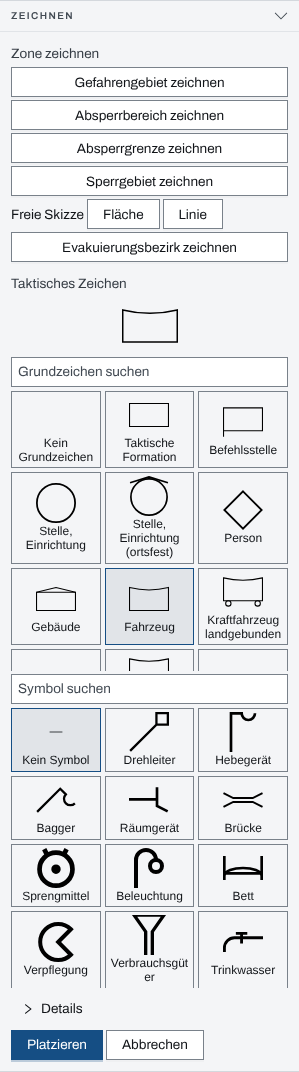
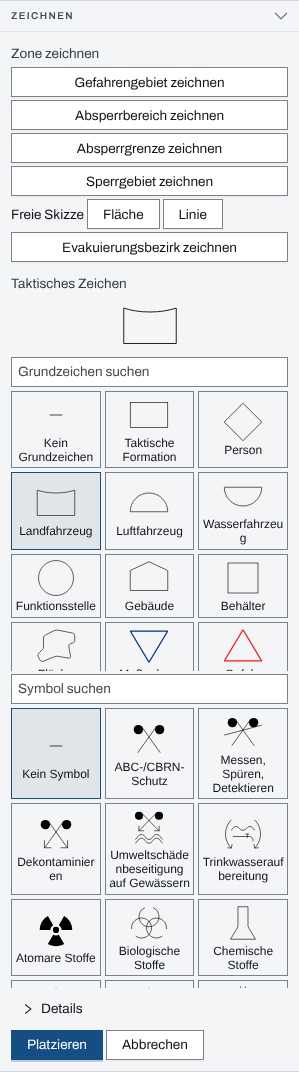
docs(anwender): LFH-836 — „Ein taktisches Zeichen setzen“ an den neuen Picker angepasst
Kein Grundzeichen plus Symbol, Farbe nur aus der Palette und nur bei Füllung,
keine Funktion, zweite Darstellungen als eigene Kachel, vereinfacht
dargestellte Altzeichen. Quellen um zeichenWahl.ts, FreiesZeichenInspector.tsx
und zeichen/freiesZeichen.ts ergänzt, taktischesZeichen.ts entfernt. Bilder
des Kapitels neu erzeugt (Kachel heißt jetzt „Landfahrzeug“).

Claude-Session: https://claude.ai/code/session_01AhpyzJ9PQTLoronAT1ThWW

diff --git a/frontend/e2e/doku-bilder/lagekarte.bilder.ts b/frontend/e2e/doku-bilder/lagekarte.bilder.ts
@@ -15,7 +15,8 @@ import { anmelden, demoEinsatz, expect, fotografiere, fuelle, test, uhrAnhalten 
  *                          frontend/src/pages/lagekarte/Sidebar.tsx,
  *                          frontend/src/pages/lagekarte/KartenUeberlagerung.tsx
  *   taktisches-zeichen.png frontend/src/pages/lagekarte/Sidebar.tsx (Paneel „Zeichnen“),
- *                          frontend/src/pages/lagekarte/FreiesZeichenPicker.tsx
+ *                          frontend/src/pages/lagekarte/FreiesZeichenPicker.tsx,
+ *                          frontend/src/pages/lagekarte/zeichenWahl.ts
  *   zone-zeichnen.png      frontend/src/pages/lagekarte/ZeichnenSteuerung.tsx
  *   messen.png             frontend/src/pages/lagekarte/MessSteuerung.tsx
  *
@@ -157,7 +158,7 @@ test.describe(KAPITEL, () => {
     const zeichnen = page.locator('section[data-paneel="zeichnen"]');
     await zeichnen.getByRole('button', { name: 'Taktisches Zeichen platzieren' }).click();
     const grundzeichen = zeichnen.getByRole('radiogroup', { name: 'Grundzeichen' });
-    await grundzeichen.getByRole('radio', { name: 'Fahrzeug', exact: true }).click();
+    await grundzeichen.getByRole('radio', { name: 'Landfahrzeug', exact: true }).click();
     await expect(zeichnen.getByRole('button', { name: 'Platzieren' })).toBeVisible();
     await page.mouse.move(0, 0);
     await fotografiere(zeichnen, KAPITEL, 'taktisches-zeichen');
